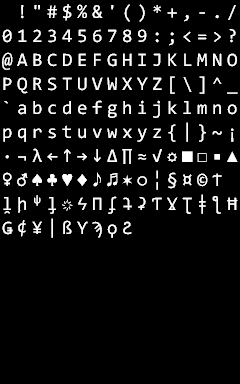
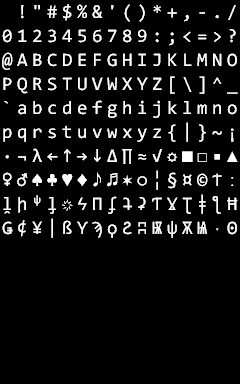
implemented basic player movement, wall stop, new fonts

Changed region(s): [[0.7, 0.5625, 0.875, 0.625], [0.5542, 0.5625, 0.6708, 0.625], [0.9333, 0.5625, 0.9917, 0.625]]

diff --git a/data/font-gen.html b/data/font-gen.html
@@ -54,7 +54,7 @@
                 canvas.width = WX;
                 canvas.height = WY;
                 
-                context.font = fontPt + "pt Consolas";
+                
                 
 
                 // 21x33, (3, -7)
@@ -70,20 +70,33 @@
                  96, 97, 98, 99,100,101,102,103,104,105,106,107,108,109,110,111,
                 112,113,114,115,116,117,118,119,120,121,122,123,124,125,126,0xA1,
                 0xB7,0xAC,0x03BB,0x2190,0x2191,0x2192,0x2193,0x2206,0x220f,0x2248,0x221A,0x263C,0x25A0,0x25A1,0x25AA,0x25B2,
-                0x2640,0x2642,0x2660,0x2663,0x2665,0x2666,0x266A,0x266B,0x2736,0x25CB,0x00A6,0xA7,0xA4,0xA9,0x3EE,0,
+                0x2640,0x2642,0x2660,0x2663,0x2665,0x2666,0x266A,0x266B,0x2736,0x25CB,0x00A6,0xA7,0xA4,0xA9,0x3EE,0x2D0,
                 0x1E3D,0x1E29,0x1D60,0x1D85,0x0489,0x03DE,0x03A0,0x0284,0x0287, 0x02A1,0x01AC,0x0194,0x01AE,0x01C2,0x01AA,0x0126,
-                0x01E4,0x00A2,0xA5,0x01C0,0xDF,0x01B3,0x3E1,0x3D9,0x3E8,0,0,0,0,0,0,0,
+                0x01E4,0x00A2,0xA5,0x01C0,0xDF,0x01B3,0x3E1,0x3D9,0x3E8,0x2AD,0x46C,0x471,0x46A,0x468,0x2D1,0x298,
                 0,0,0,0,0,0,0,0,0,0,0,0,0,0,0,0,
                 0,0,0,0,0,0,0,0,0,0,0,0,0,0,0,0,
                 0,0,0,0,0,0,0,0,0,0,0,0,0,0,0,0,
                 0,0,0,0,0,0,0,0,0,0,0,0,0,0,0,0,
                 0,0,0,0,0,0,0,0,0,0,0,0,0,0,0,0,
                 ];
+
+                
                 
                 for (var i = 0; i < 16; ++i)        
                 {
                     for (var j = 0; j < 16; ++j)        
                     {
+                        var code = codes[j * 16 + i];
+
+/*                      if (code === 64)
+                        {
+                            context.font = context.font = fontPt + "pt Inconsolata-g";
+                        } 
+                        else*/
+                        {
+                            context.font = fontPt + "pt Consolas";
+                        }
+
                         var s = String.fromCharCode(codes[j * 16 + i]); 
                     /*    if ((i ^ j) & 1)
                         {
